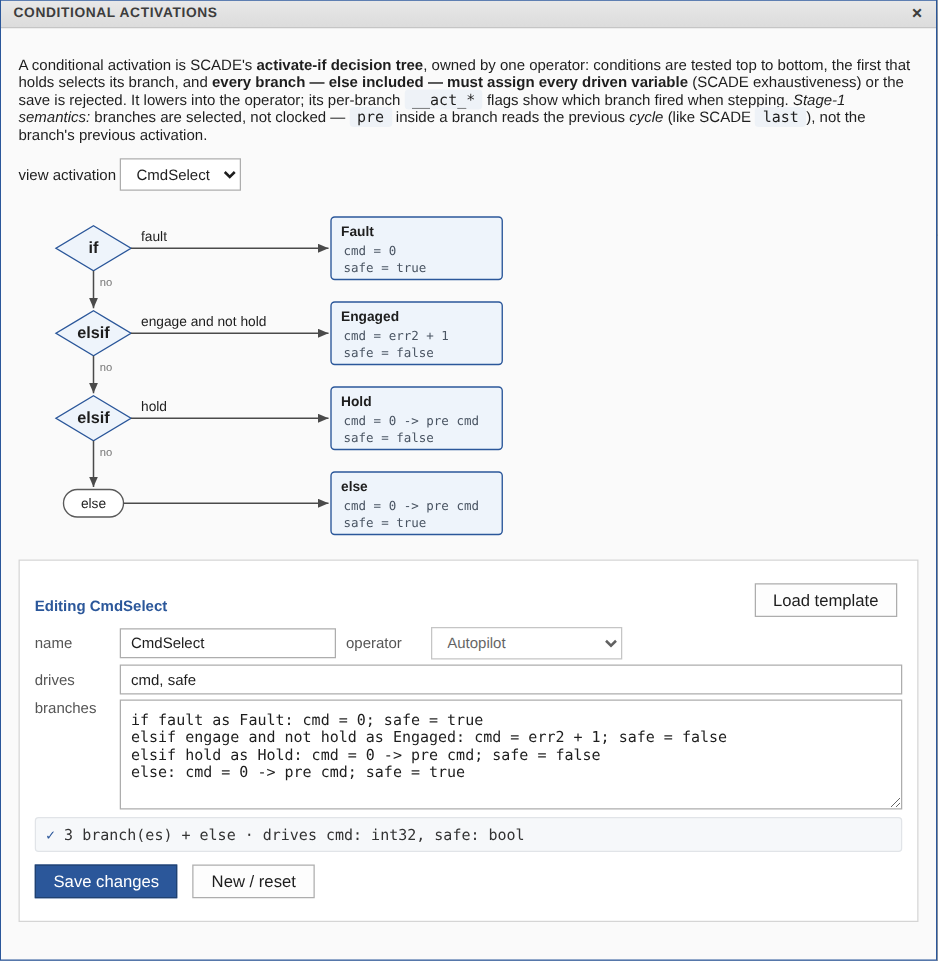
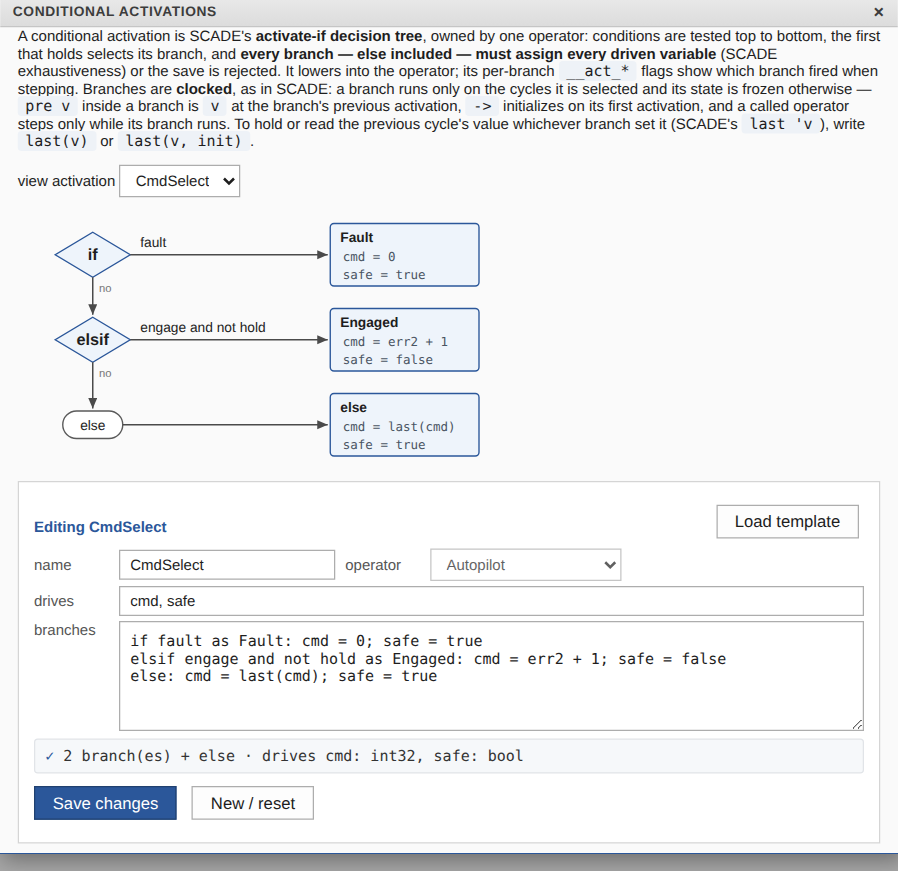
Studio + docs: clocked activations
- Conditional Activations dialog: explains the clocked branch semantics
  and last(v) / last(v, init); the placeholder shows the hold pattern
  (`else: cmd = last(cmd)`).
- Simulation dock: the lowering's plumbing locals (guards, sampled
  reads, per-branch values, last holders) stay out of the watch table and
  the waveform; the "branch selected" flags remain.
- README: activation paragraph describes clocked branches and last();
  new dialog screenshot.
- Roadmap: item 4 done, the stage-1 gap replaced by a migration note
  (pre-as-previous-cycle inside a branch → last(v)); next step is
  model-to-code traceability (item 5), with Kind 2 provisioning noted.

Claude-Session: https://claude.ai/code/session_01ARWWbwokK1sRGBJaLctJ4t

Changed region(s): [[0.0, 0.0, 1.0, 1.0], [0.3118, 0.217, 0.5612, 0.558], [0.7795, 0.589, 0.9666, 0.651]]

diff --git a/crates/ol_cli/src/studio_ui.html b/crates/ol_cli/src/studio_ui.html
@@ -867,7 +867,7 @@
   </div>
 
   <div class="dlg" id="dlg-act">
-    <p>A conditional activation is SCADE's <strong>activate-if decision tree</strong>, owned by one operator: conditions are tested top to bottom, the first that holds selects its branch, and <strong>every branch — else included — must assign every driven variable</strong> (SCADE exhaustiveness) or the save is rejected. It lowers into the operator; its per-branch <code class="inline">__act_*</code> flags show which branch fired when stepping. <em>Stage-1 semantics:</em> branches are selected, not clocked — <code class="inline">pre</code> inside a branch reads the previous <em>cycle</em> (like SCADE <code class="inline">last</code>), not the branch's previous activation.</p>
+    <p>A conditional activation is SCADE's <strong>activate-if decision tree</strong>, owned by one operator: conditions are tested top to bottom, the first that holds selects its branch, and <strong>every branch — else included — must assign every driven variable</strong> (SCADE exhaustiveness) or the save is rejected. It lowers into the operator; its per-branch <code class="inline">__act_*</code> flags show which branch fired when stepping. Branches are <strong>clocked</strong>, as in SCADE: a branch runs only on the cycles it is selected and its state is frozen otherwise — <code class="inline">pre v</code> inside a branch is <code class="inline">v</code> at the branch's previous activation, <code class="inline">-&gt;</code> initializes on its first activation, and a called operator steps only while its branch runs. To hold or read the previous cycle's value whichever branch set it (SCADE's <code class="inline">last 'v</code>), write <code class="inline">last(v)</code> or <code class="inline">last(v, init)</code>.</p>
     <div class="row">view activation <select id="act-select" onchange="actView()"></select></div>
     <div id="act-host"></div>
     <div class="edit-form">
@@ -884,7 +884,7 @@
       </div>
       <div class="row" style="align-items:flex-start">
         <label>branches</label>
-        <textarea id="act-branches" rows="5" style="flex:1" oninput="actPreview()" placeholder="One branch per line, first match wins:&#10;if fault as Fault:    cmd = 0;     safe = true&#10;elsif arm as Engaged: cmd = x + 1; safe = false&#10;else:                 cmd = x;     safe = true"></textarea>
+        <textarea id="act-branches" rows="5" style="flex:1" oninput="actPreview()" placeholder="One branch per line, first match wins:&#10;if fault as Fault:    cmd = 0;           safe = true&#10;elsif arm as Engaged: cmd = last(cmd) + 1; safe = false&#10;else:                 cmd = last(cmd);   safe = true"></textarea>
       </div>
       <div id="act-preview" class="fsm-preview"></div>
       <div class="row">
@@ -6296,6 +6296,13 @@ function kindOfTypeStr(t) {
 
 function simSignals() { return state.sim.session ? state.sim.session.signals : []; }
 
+/// A clocked activation's lowering plumbing (guards, sampled reads,
+/// per-branch values, last() holders): kept out of the watch table and the
+/// waveform. Its "branch selected" flags (`__act_<name>_b<k>`) stay.
+function simPlumbing(name) {
+  return name.startsWith("__act_") && !/_b\d+$/.test(name);
+}
+
 function setSimNote(kind, msg) {
   const el = document.getElementById("sim-note");
   el.className = "build-note " + (kind || "");
@@ -6525,7 +6532,9 @@ function simShowCycle() {
 /// check lanes; run stops are marked.
 function simWaveModel() {
   const s = state.sim, rows = s.rows;
-  const lanes = simSignals().map((g, i) => ({ name: g.name, type: g.type, kind: g.kind, values: rows.map(r => r.values[i]) }));
+  const lanes = simSignals()
+    .map((g, i) => ({ name: g.name, type: g.type, kind: g.kind, values: rows.map(r => r.values[i]) }))
+    .filter(l => !simPlumbing(l.name));
   if (s.session && s.session.monitored) {
     lanes.push({ id: "#mode", name: "mode", kind: "contract", values: rows.map(r => (r.modes || []).join(", ")) });
     lanes.push({ id: "#check", name: "contract", kind: "contract", check: true, values: rows.map(r => (r.violations || []).join(", ")) });
@@ -6603,7 +6612,7 @@ function simBuildWatchTable() {
   const body = document.getElementById("sim-watch-body");
   body.innerHTML = "";
   document.getElementById("step-entry-name").textContent = state.sim.session.root;
-  const sigs = simSignals();
+  const sigs = simSignals().filter(s => !simPlumbing(s.name));
   const ordered = sigs.filter(s => !s.name.startsWith("__")).concat(sigs.filter(s => s.name.startsWith("__")));
   for (const s of ordered) {
     const tr = document.createElement("tr");

diff --git a/tests/studio_server.rs b/tests/studio_server.rs
@@ -234,4 +234,7 @@ fn studio_server_health_root_inspect_lustre_clite_and_simulate() {
     assert!(html.contains("id=\"sim-cil\"") && html.contains("/api/sim/c"), "C-in-the-loop toggle missing");
     assert!(html.contains("function simSetC") && html.contains("function simShownCDiff"), "C-in-the-loop client missing");
     assert!(html.contains("stop_on_divergence"), "stop on divergence missing");
+    // Clocked activations: the editor explains last(), the live views hide
+    // the lowering's plumbing locals.
+    assert!(html.contains("last(v, init)") && html.contains("function simPlumbing"), "clocked activation UI missing");
 }

diff --git a/docs/scade-parity-roadmap.md b/docs/scade-parity-roadmap.md
@@ -27,7 +27,7 @@ no GUI at all.
 |---|---|---|
 | Dataflow authoring (blocks, wires, typed ports) | ✅ | ✅ SCADE-style glyphs, orthogonal wires, zoom/pan, minimap, align/distribute, clipboard, export |
 | State machines (flat + hierarchical, operator-owned) | ✅ | ✅ textual editor, draggable chart, canvas block |
-| Conditional activation (activate-if) | ✅ stage 1 (selected, not clocked) | ✅ editor, decision-tree chart, canvas block |
+| Conditional activation (activate-if) | ✅ clocked branches (frozen when inactive) + `last(v)` | ✅ editor, decision-tree chart, canvas block |
 | Type checking, function/operator rules | ✅ | ✅ errors mapped onto boxes and wires |
 | **CoCoSpec contracts: assume / guarantee / modes** | ✅ IR, checker (now type-checks clauses), CoCoSpec emit, observer-based runtime monitors | ✅ **contract editor: clause rows, mode table, CoCoSpec text, live checking** (was read-only) |
 | Lustre + CoCoSpec export | ✅ | ✅ Lustre pane |
@@ -78,10 +78,10 @@ were silent):
   literals are always C double literals, and both sides print reals with
   one shortest round-trip algorithm (item 6b).
 
-**Known semantic gap (documented):** activations are stage 1 — branches are
-*selected*, not *clocked*. `pre` inside a branch reads the previous cycle
-(like SCADE `last`), not the branch's previous activation. Models that rely
-on frozen inactive branches will behave differently than in SCADE.
+**Activation semantics now match SCADE** (item 4): branches are clocked and
+freeze when inactive; `last(v)` gives SCADE's `last 'v` for hold patterns.
+A model written for the earlier stage-1 semantics that used `pre v` inside a
+branch to mean "the previous cycle" should use `last(v)` instead.
 
 
 ## Recommendations
@@ -130,9 +130,14 @@ Sizes: **S** ≈ a session, **M** ≈ 2–3 sessions, **L** ≈ 4+.
 
 ### P1 — SCADE semantics and code-generation quality
 
-4. **Clocked activation, stage 2 (M–L).** Lower branches onto clocks
-   (`when` / `merge`, or condact-style) so inactive branches freeze, matching
-   SCADE; keep the byte-identical IR-vs-C test as the gate.
+4. ✅ **Clocked activation — done.** Each branch runs on its own nested
+   clock (`when not b1 … when gk`), every variable it reads is sampled onto
+   that clock by a local that holds while the branch is inactive, and the
+   outputs merge back — so `pre` / `->` / stateful calls inside a branch
+   freeze exactly as in SCADE. `last(v)` / `last(v, init)` provides SCADE's
+   `last 'v`. The simulator, the generated C (byte-identical traces, and in
+   lockstep under C in the loop) and the Lustre for Kind 2 (clocked locals
+   declared `x: int when c`) all run the same lowered clocks.
 5. **Model-to-code traceability (M).** Per-equation comments in the generated
    C naming operator / equation / diagram element, a machine-readable trace
    matrix, and a generation report (files, operators, state sizes). This is
@@ -193,12 +198,14 @@ Sizes: **S** ≈ a session, **M** ≈ 2–3 sessions, **L** ≈ 4+.
 
 ## Suggested next step
 
-The P0 items and items 6 / 6b are done: the compiled C runs in lockstep with
-the simulator, and every difference it found between model and code —
-integer wrap, enum inputs, `float32` precision, an int-typed real literal —
-is fixed, with the simulator now following C's arithmetic exactly.
+The P0 items and the P1 semantics items (4, 6, 6b) are done: activations are
+clocked like SCADE's, and model and generated C agree cycle by cycle —
+verified in batch, in lockstep, and over long float runs.
 
-Next is item **4** (clocked activation): the one remaining known semantic
-gap with SCADE. Inactive activation branches should freeze their state, and
-the lockstep and byte-identical trace checks are now strong enough to gate
-that change cycle by cycle.
+Next is item **5** (model-to-code traceability): per-equation comments in
+the generated C naming the operator, equation and diagram element, a
+machine-readable trace matrix, and a generation report. It is what KCG users
+expect, what DO-178C-style reviews need, and it feeds the evidence report
+(item 13). Provisioning Kind 2 (item 12) is the other gap worth closing
+soon: the clocked Lustre it now receives hasn't been proved in this
+environment.

diff --git a/README.md b/README.md
@@ -46,9 +46,17 @@ condition that holds selects its branch, and every branch — else included —
 must assign every driven variable, checked before the tree is saved. It is
 drawn as a decision-tree chart, and on the operator's canvas both constructs
 appear as single blocks (reads in, drives out; double-click to edit). When
-stepping, per-branch flags show which branch fired each cycle.
+stepping, per-branch flags show which branch fired each cycle. Branches are
+**clocked**, as in SCADE: a branch runs only on the cycles it is selected
+and its state is frozen otherwise — `pre v` inside a branch is `v` at the
+branch's previous activation, `->` initializes on its first activation, and
+a called operator steps only while its branch runs. `last(v)` (SCADE's
+`last 'v`) reads the previous cycle's value whichever branch set it — the
+"hold" pattern, e.g. `else: cmd = last(cmd)`. Activations lower onto
+`when` / `merge` clocks, so the simulator, the generated C and the Lustre
+given to Kind 2 all share one semantics.
 
-![A conditional activation in OpenLustre Studio — the Conditional Activations dialog with its decision-tree chart (if fault / elsif engage and not hold / elsif hold / else) above the textual branch editor.](docs/screenshots/04-activation.png)
+![A conditional activation in OpenLustre Studio — the Conditional Activations dialog with its decision-tree chart (if fault / elsif engage and not hold / else with cmd = last(cmd)) above the textual branch editor and the clocked-branch semantics.](docs/screenshots/04-activation.png)
 
 **Contracts, authored in the Studio.** Each operator can carry a CoCoSpec
 contract — ghost variables, assumptions, guarantees and modes — edited as
